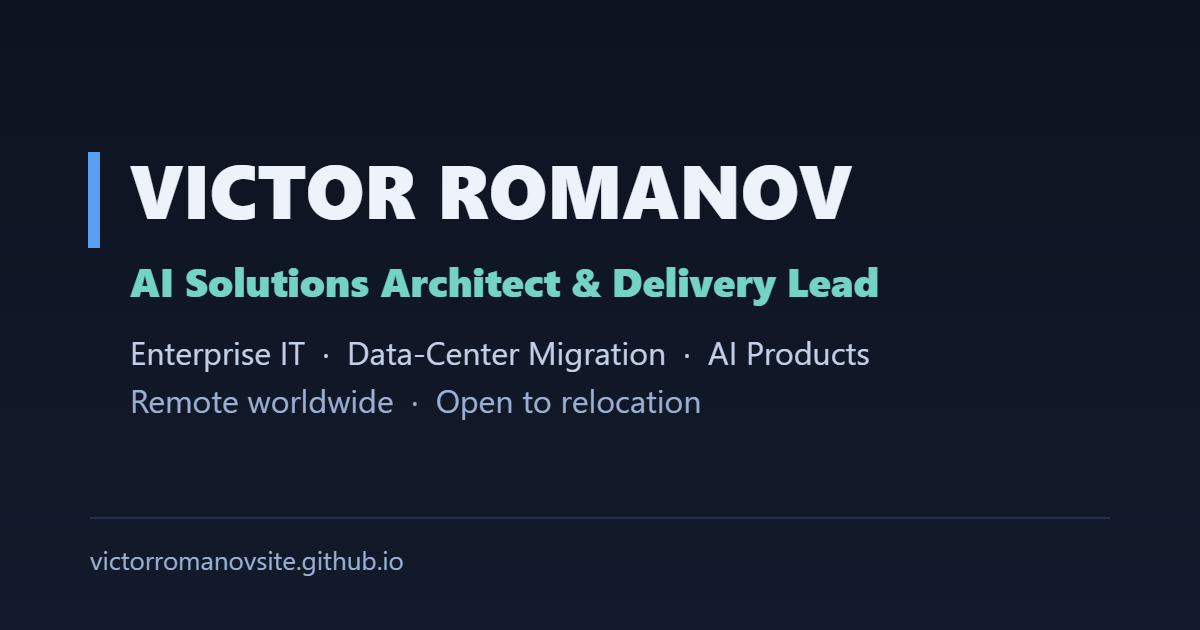
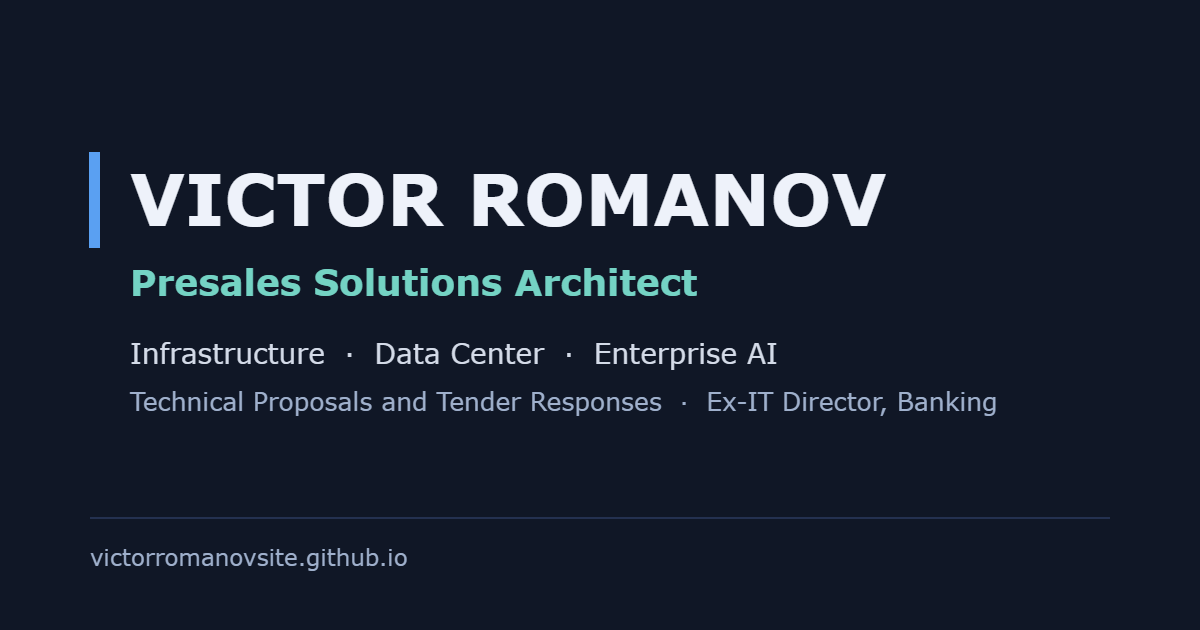
Share image: Presales Solutions Architect

diff --git a/index.html b/index.html
@@ -11,14 +11,14 @@
 <meta property="og:description" content="Enterprise IT leadership at scale meets modern AI delivery. Solution architecture, data-center migration, LLM/RAG. Remote worldwide, open to relocation.">
 <meta property="og:type" content="website">
 <meta property="og:url" content="https://victorromanovsite.github.io/">
-<meta property="og:image" content="https://victorromanovsite.github.io/og-image.png?v=3">
+<meta property="og:image" content="https://victorromanovsite.github.io/og-image.png?v=4">
 <meta property="og:image:width" content="1200">
 <meta property="og:image:height" content="630">
 <meta property="og:image:alt" content="Victor Romanov | Presales Solutions Architect. Infrastructure, data center and enterprise AI.">
 <meta name="twitter:card" content="summary_large_image">
 <meta name="twitter:title" content="Victor Romanov | Presales Solutions Architect">
 <meta name="twitter:description" content="Enterprise IT leadership at scale meets modern AI delivery. Solution architecture, data-center migration, LLM/RAG. Remote worldwide, open to relocation.">
-<meta name="twitter:image" content="https://victorromanovsite.github.io/og-image.png?v=3">
+<meta name="twitter:image" content="https://victorromanovsite.github.io/og-image.png?v=4">
 <style>
   :root{
     --bg:#0e1320; --bg2:#131a2b; --panel:#161e30; --panel2:#1c2740;
